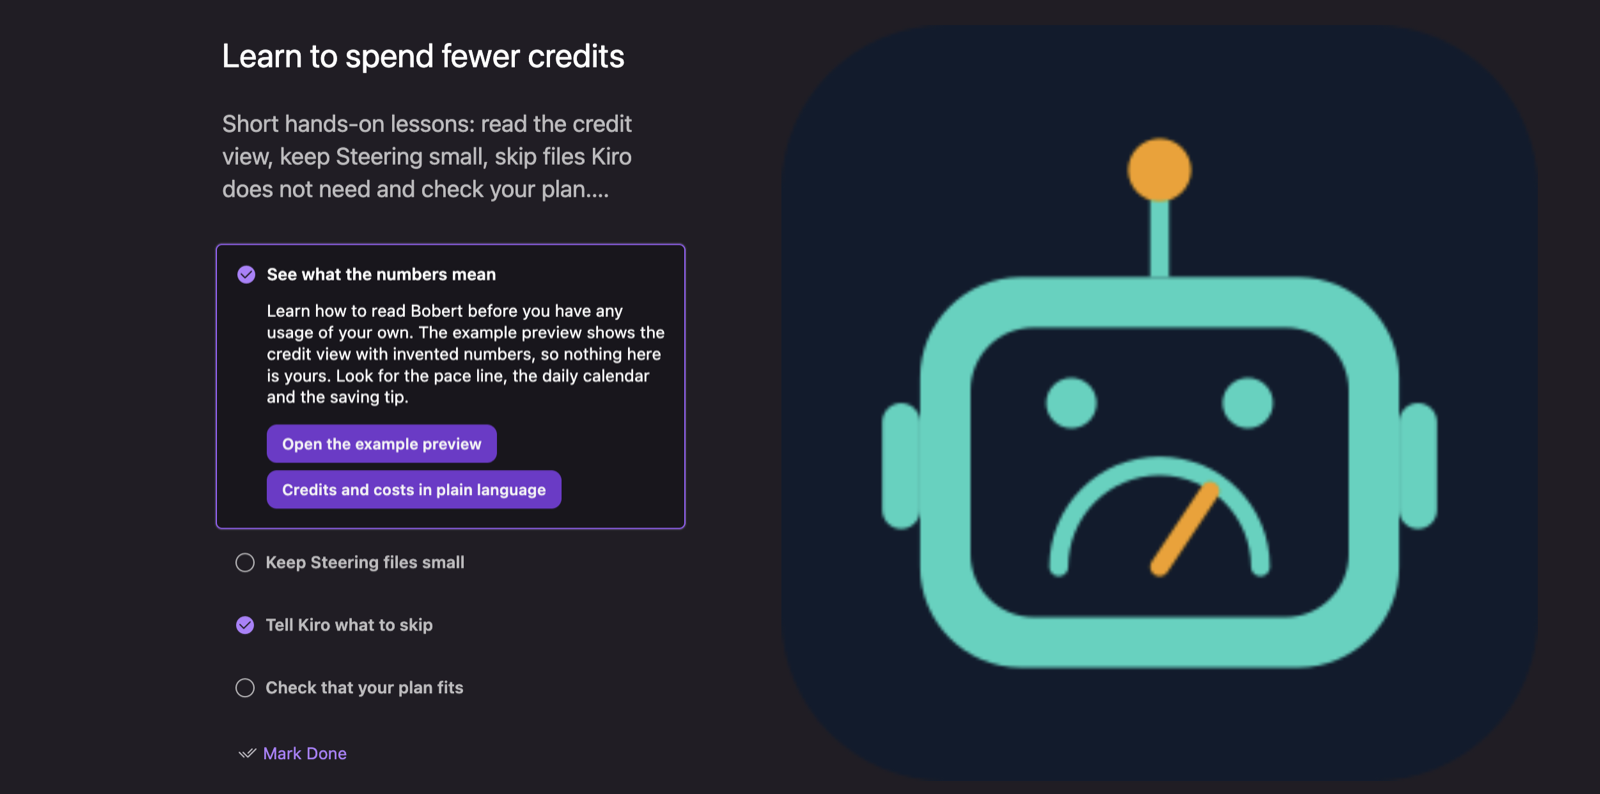
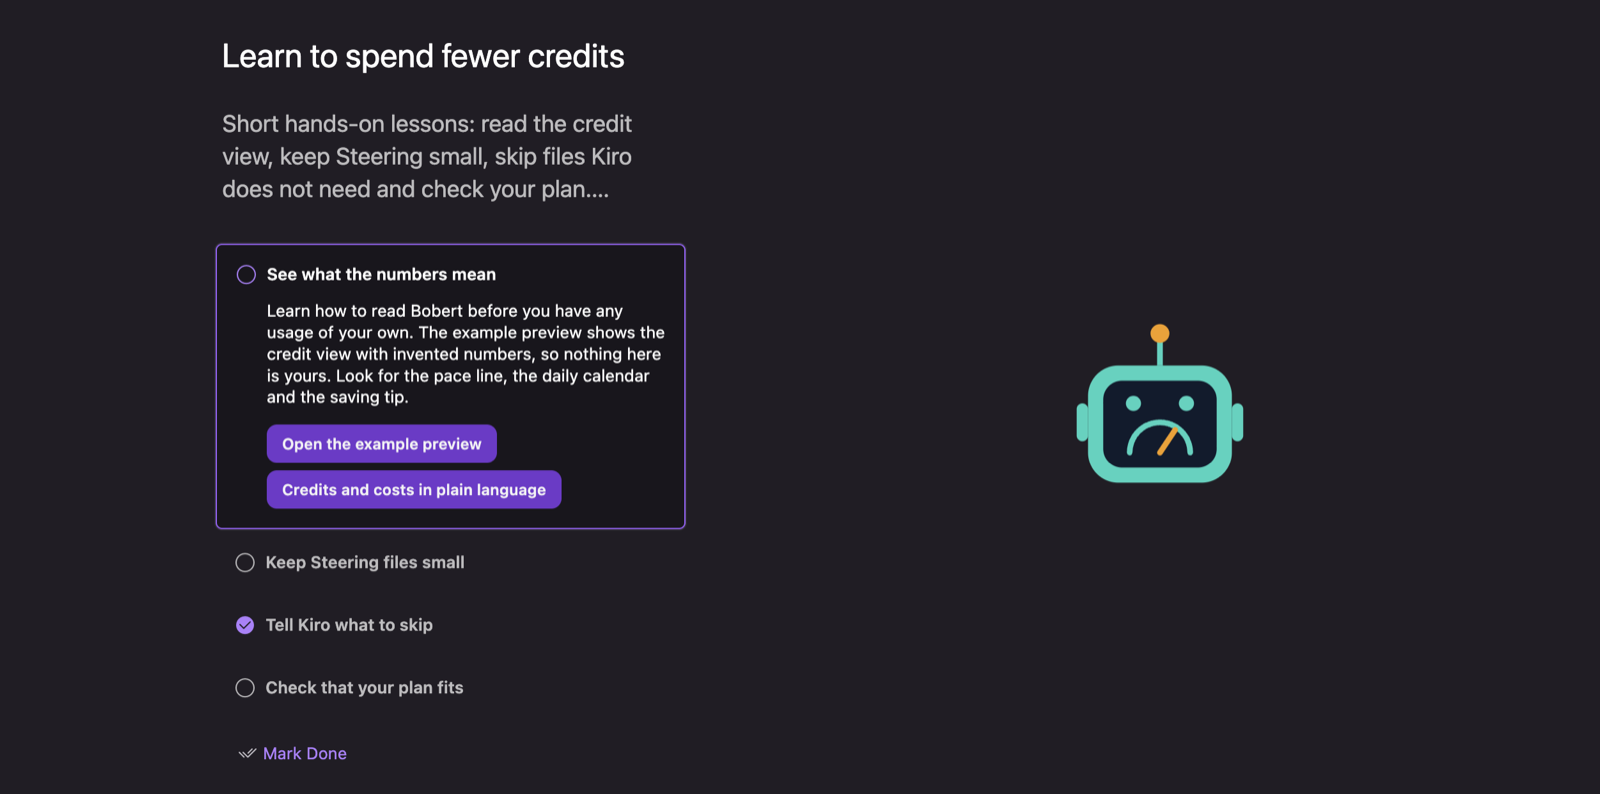
docs(media): lessons screenshot with the smaller Bobert

Changed region(s): [[0.5312, 0.1511, 0.9062, 0.8463], [0.125, 0.3325, 0.1562, 0.3627]]

diff --git a/README.md b/README.md
@@ -48,7 +48,7 @@ Free and open source, with no account, no sign-in and no telemetry. Everything s
 </p>
 
 <p align="center">
-  <img src="https://raw.githubusercontent.com/StefanSuess/Bobert/main/docs/media/lessons.png" alt="The Learn to spend fewer credits walkthrough on Kiro's Welcome page: four lessons (See what the numbers mean, Keep Steering files small, Tell Kiro what to skip, Check that your plan fits). The first is open, with buttons for the example preview and a plain-language guide to credits and costs; beside it the Bobert icon, a teal robot head whose mouth is a gauge." width="900">
+  <img src="https://raw.githubusercontent.com/StefanSuess/Bobert/main/docs/media/lessons.png" alt="The Learn to spend fewer credits walkthrough on Kiro's Welcome page: four lessons (See what the numbers mean, Keep Steering files small, Tell Kiro what to skip, Check that your plan fits). The first is open, with buttons for the example preview and a plain-language guide to credits and costs; beside it a small Bobert, a teal robot head whose mouth is a gauge." width="900">
   <br><sub><i>Four short lessons. Bobert promises not to quiz you.</i></sub>
 </p>
 
